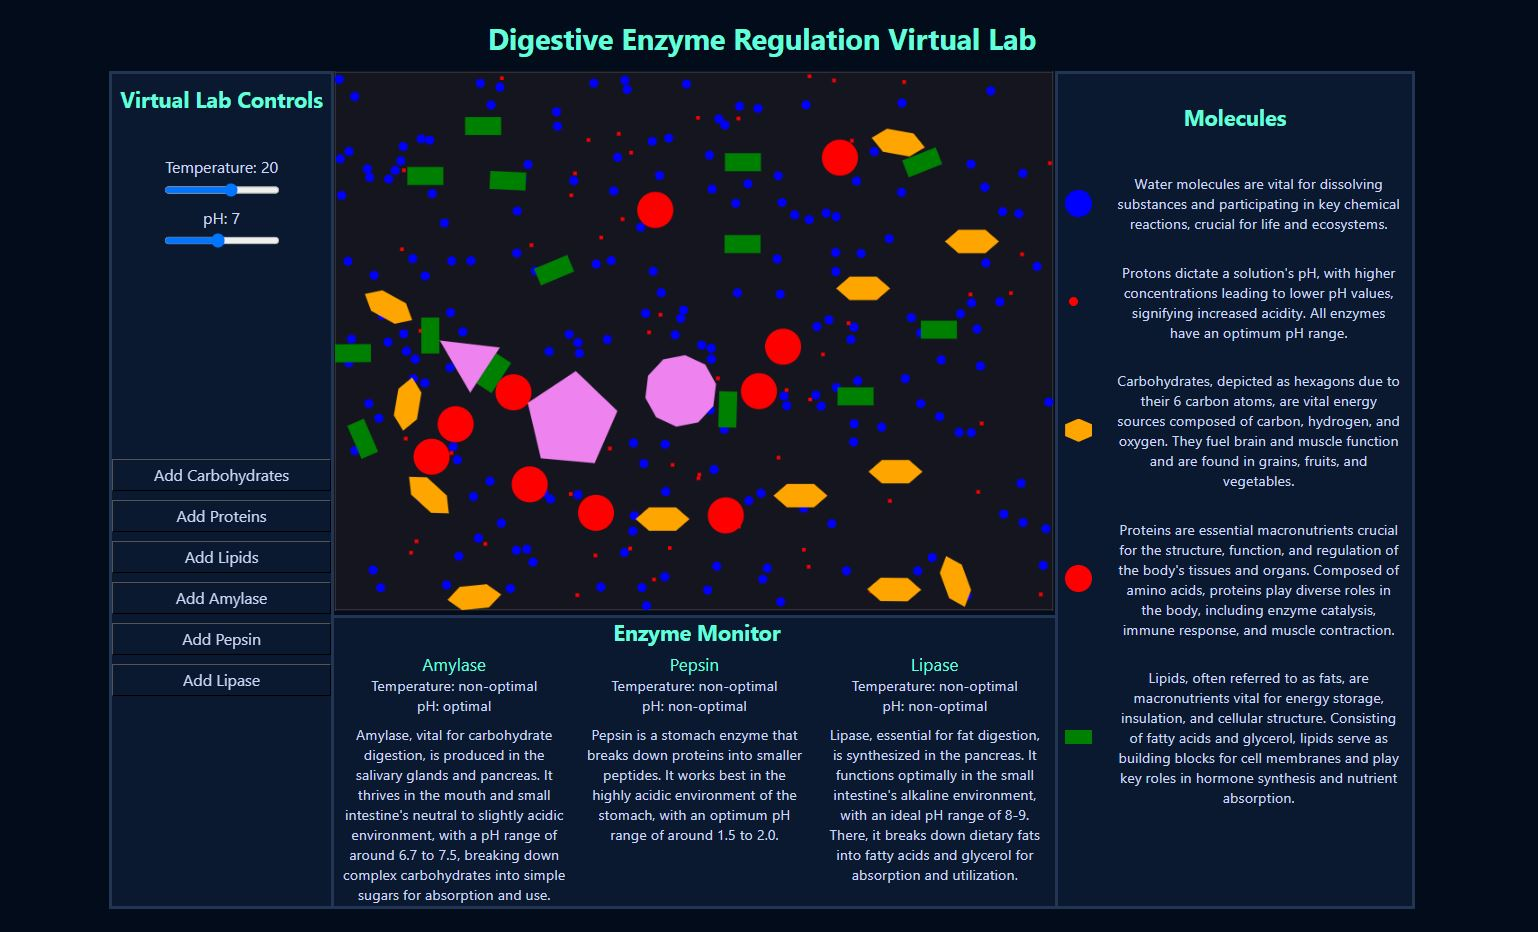
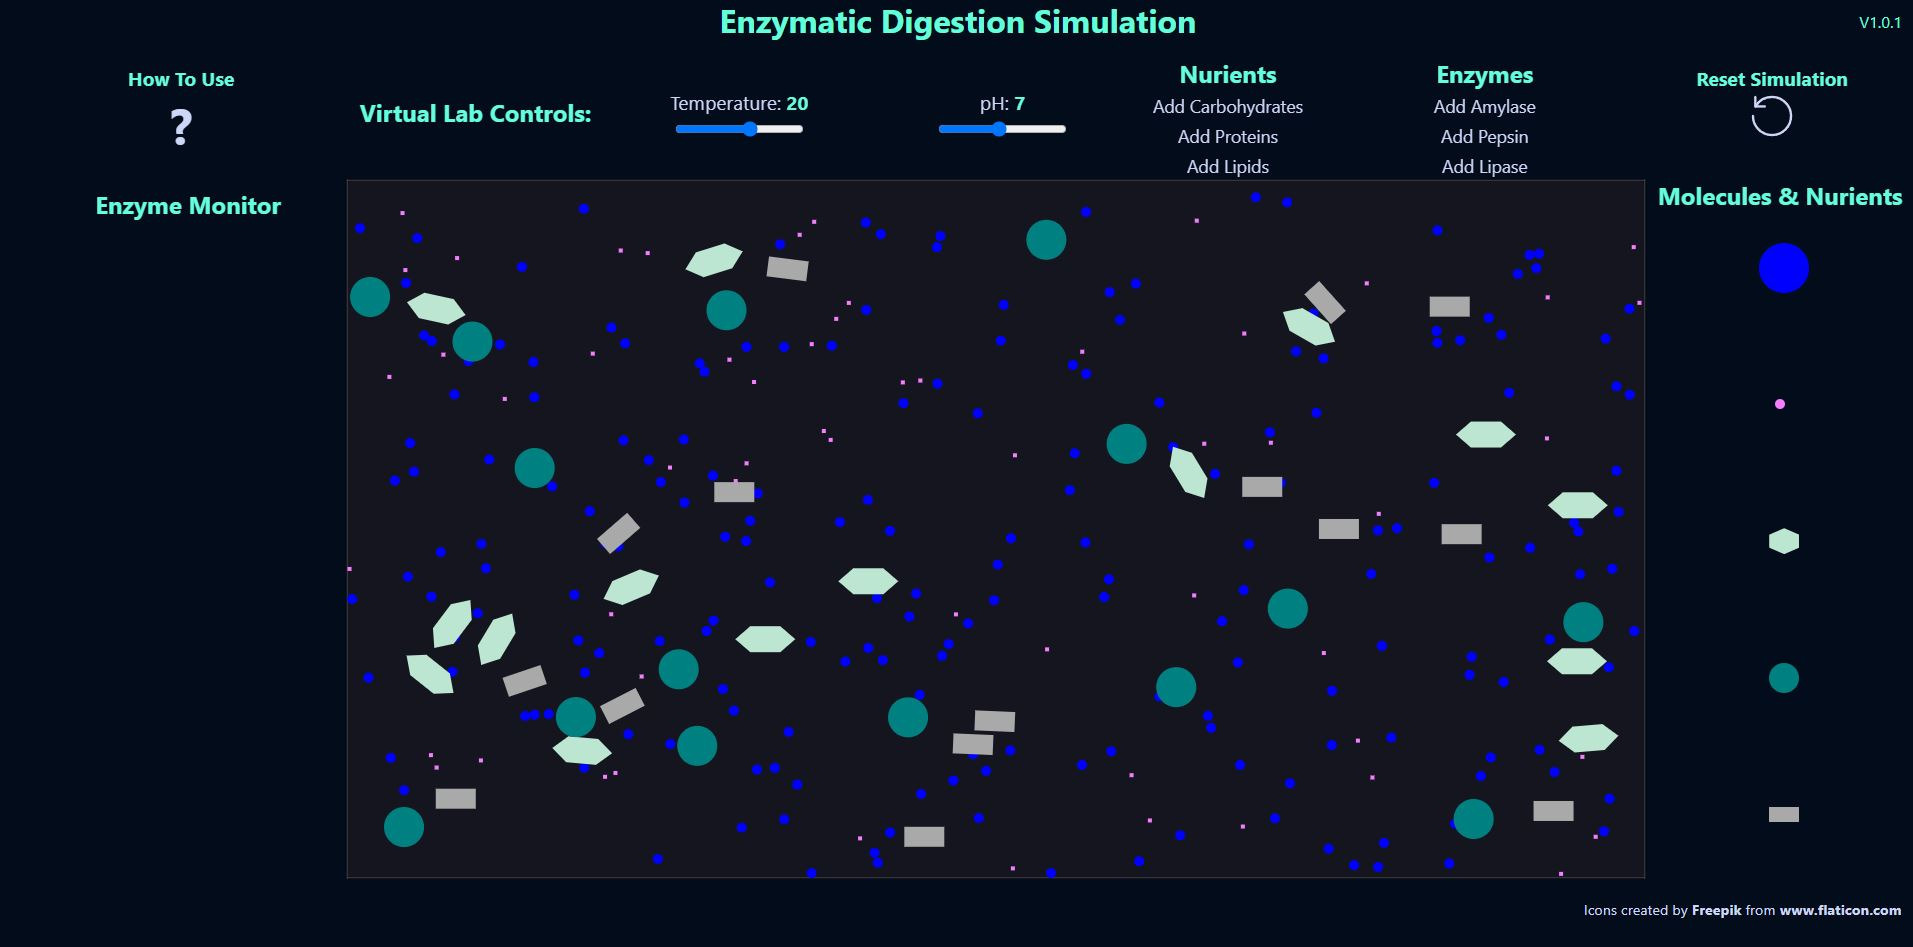
updated Project and Job section

diff --git a/src/components/Content/Projects.js b/src/components/Content/Projects.js
@@ -1,8 +1,8 @@
 import styles from './Projects.module.css';
 import enzyme from '../../assets/enzyme.JPG';
-import bfs from '../../assets/bfs.JPG';
-import memento from '../../assets/memento.jpg';
-import v1_website from '../../assets/v1_website.JPG';
+// import bfs from '../../assets/bfs.JPG';
+// import memento from '../../assets/memento.jpg';
+// import v1_website from '../../assets/v1_website.JPG';
 import useRevealOnScroll from '../utils/js/useRevealOnScroll';
 
 const Projects = () => {
@@ -10,7 +10,7 @@ const Projects = () => {
   return (
     <section id='projects' className={styles.projectWrapper}>
       <h2 className={styles.projectsHead} ref={addRef(0.3)}>
-        Some Things I've Built
+        Projects
       </h2>
       <ul className={styles.styledProjectGrid}>
         <li className={styles.styledProject} ref={addRef(0.6)}>
@@ -18,15 +18,15 @@ const Projects = () => {
             <div>
               <p className={styles.projectOverline}>Featured Project</p>
               <h3 className={styles.projectTitle}>
-                <a href='/' rel='noopener noreferrer' target='_blank'>
-                  Digestive Enzyme Regulation Virtual Lab
+                <a href='https://biochem-interactive.com/' rel='noopener noreferrer' target='_blank'>
+                  Enzymatic Digestion Simulation
                 </a>
               </h3>
               <div className={styles.projectDescription}>
                 <p>
-                  Explore the intricacies of nutrient digestion at a molecular level with this educational simulator.
-                  Developed using the Matter.js physics engine and built on React, this tool provides a detailed and
-                  interactive approach to learning about the digestive process.
+                  Explore the intricacies of enzymatic nutrient digestion at a molecular level with this educational
+                  simulator. Developed using the Matter.js physics engine and built on React, this tool provides a
+                  detailed and interactive approach to learning about the digestive process.
                 </p>
               </div>
               <ul className={styles.projectTechList}>
@@ -59,7 +59,7 @@ const Projects = () => {
                   </svg>
                 </a>
                 <a
-                  href='https://bio.dennis-marx.de/'
+                  href='https://biochem-interactive.com/'
                   aria-label='External Link'
                   rel='noopener noreferrer'
                   target='_blank'
@@ -85,7 +85,7 @@ const Projects = () => {
             </div>
           </div>
           <div className={styles.projectImage}>
-            <a href='https://bio.dennis-marx.de/' rel='noopener noreferrer' target='_blank'>
+            <a href='https://biochem-interactive.com/' rel='noopener noreferrer' target='_blank'>
               <div className={styles.imageWrapper}>
                 <div className={styles.subImageWrapper}>
                   <img aria-hidden='true' data-placeholder-image='' decoding='async' src={enzyme} alt=''></img>

diff --git a/src/components/Content/getJobContent.js b/src/components/Content/getJobContent.js
@@ -30,13 +30,13 @@ const getJobContent = ({ jobName, isActive }) => {
             </div>
           </>
         );
-      case 'Digital Career Advisor':
+      case 'Digital Learning Specialist':
         return (
           <>
             <h3>
-              <span>Self-Employed as a Digital Career Advisor</span>
+              <span>Self-Employed as a Digital Learning Specialist</span>
             </h3>
-            <p className={styles.range}>February 2021 - October 2022</p>
+            <p className={styles.range}>February 2021 - present</p>
             <div>
               <ul className={styles.jobList}>
                 <li>
@@ -56,28 +56,8 @@ const getJobContent = ({ jobName, isActive }) => {
             </div>
           </>
         );
-      case 'Hospitality Manager':
-        return (
-          <>
-            <h3>
-              <span>Hospitality Manager</span>
-            </h3>
-            <p className={styles.range}>October 2021 - October 2022</p>
-            <div>
-              <ul className={styles.jobList}>
-                <li>Strategic planning and business model development for multiple gastronomy establishments.</li>
-                <li>
-                  Oversight of daily operations, including staff management, financial planning, and customer service.
-                </li>
-                <li>Implementation of quality control standards to ensure an excellent customer experience.</li>
-                <li>
-                  Coordination of marketing and promotional activities to enhance brand awareness and customer loyalty.
-                </li>
-              </ul>
-            </div>
-          </>
-        );
-      case 'Bremen Education Service':
+
+      case 'Teacher':
         return (
           <>
             <h3>

diff --git a/src/components/Content/Projects.module.css b/src/components/Content/Projects.module.css
@@ -65,7 +65,6 @@
   grid-row-end: -1;
   grid-column-start: 1;
   grid-column-end: 7;
-
 }
 
 .projectOverline {
@@ -98,15 +97,15 @@
 }
 
 .projectImage a::before {
-  content: "";
-    position: absolute;
-    width: 100%;
-    height: 100%;
-    inset: 0px;
-    z-index: 3;
-    transition: var(--transition);
+  content: '';
+  position: absolute;
+  width: 100%;
+  height: 100%;
+  inset: 0px;
+  z-index: 3;
+  transition: var(--transition);
 
-    mix-blend-mode: screen;
+  mix-blend-mode: screen;
 }
 
 .subImageWrapper {
@@ -181,7 +180,7 @@
   /* opacity: 0; */
 }
 
-@media only screen and (max-width: 600px) { 
+@media only screen and (max-width: 600px) {
   .projectsHead {
     font-size: var(--fz-xxl);
   }
@@ -217,8 +216,6 @@
   .styledProject .projectImage a {
     position: relative;
     height: 100%;
-
-    
   }
   .imageWrapper {
     object-fit: cover;
@@ -226,10 +223,5 @@
     height: 100%;
     filter: grayscale(100%) contrast(1) brightness(20%);
     /* background-color: #000; */
-
-  }
-  .projectImage .imageWrapper img {
-    /* opacity: 0.2; */
-    /* background-color: #; */
   }
 }

diff --git a/src/components/Content/Jobs.js b/src/components/Content/Jobs.js
@@ -10,12 +10,7 @@ const Jobs = () => {
   const [activeJob, setActiveJob] = useState('Fraunhofer-Institute');
   const [windowWidth, setWindowWidth] = useState(window.innerWidth);
 
-  const jobNames = [
-    'Fraunhofer-Institute',
-    'Digital Career Advisor',
-    'Hospitality Manager',
-    'Bremen Education Service',
-  ];
+  const jobNames = ['Fraunhofer-Institute', 'Digital Learning Specialist', 'Teacher'];
 
   useEffect(() => {
     const handleResize = () => {

diff --git a/src/components/Footer/Footer.js b/src/components/Footer/Footer.js
@@ -42,12 +42,6 @@ const Footer = () => {
                 <strong>LinkedIn</strong>
               </a>
             </li>
-            <li>
-              <a href='https://codepen.io/denmarx' target='_blank' rel='noopener noreferrer'>
-                <span>04</span>
-                <strong>CodePen</strong>
-              </a>
-            </li>
           </ul>
         </nav>
       </div>
